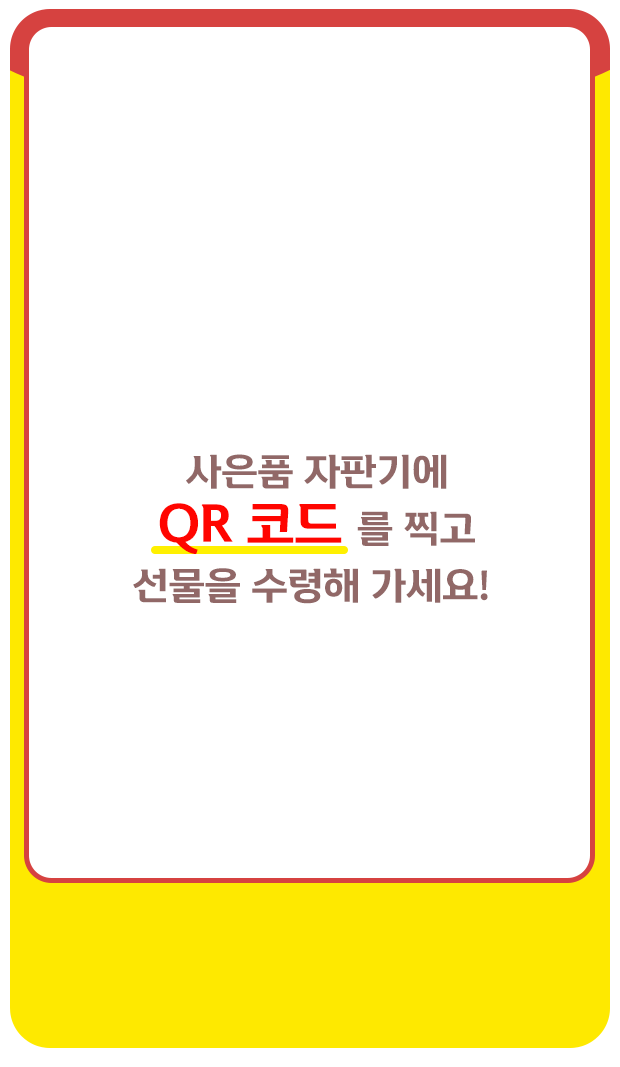
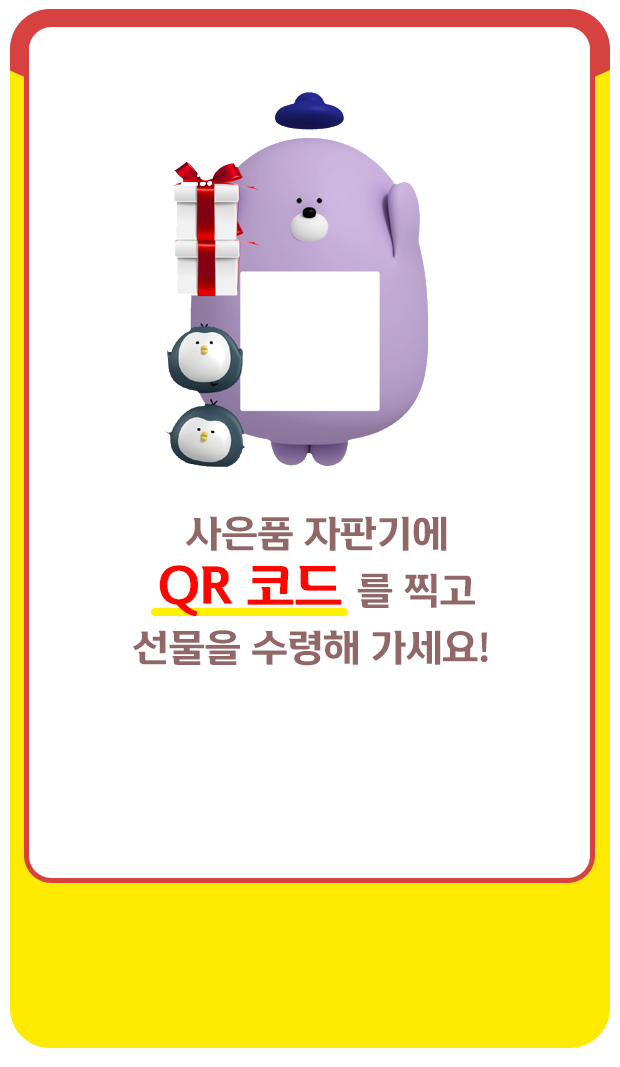
ux

Changed region(s): [[0.2145, 0.0619, 0.7968, 0.6495]]

diff --git a/webar/script.js b/webar/script.js
@@ -14,6 +14,19 @@ var quizs = [
 var quizidx = 0;
 
 function showQR() {
+document.getElementById('congratux').style.display = 'none';
+document.getElementById('qrux').style.display = 'block';
+removeAllQR();
+
+var qrcode = new QRCode(document.getElementById("qrcode"), {
+	text: "https://www.naver.com",
+	width: 64,
+	height: 64,
+	colorDark : "#000000",
+	colorLight : "#ffffff",
+	correctLevel : QRCode.CorrectLevel.H
+});
+
 /*	
 	$.ajax("https://game.digilog-xr.com/app/gameQr")
 	.done(function(response) {
@@ -24,8 +37,8 @@ function showQR() {
 		
 		var qrcode = new QRCode(document.getElementById("qrcode"), {
 			text: response.result.qrString,
-			width: 200,
-			height: 200,
+			width: 64,
+			height: 64,
 			colorDark : "#000000",
 			colorLight : "#ffffff",
 			correctLevel : QRCode.CorrectLevel.H
@@ -35,18 +48,7 @@ function showQR() {
 		console.log(error);
 	});
 */	
-document.getElementById('congratux').style.display = 'none';
-document.getElementById('qrux').style.display = 'block';
-removeAllQR();
 
-var qrcode = new QRCode(document.getElementById("qrcode"), {
-	text: "https://www.naver.com",
-	width: 128,
-	height: 128,
-	colorDark : "#000000",
-	colorLight : "#ffffff",
-	correctLevel : QRCode.CorrectLevel.H
-});
 }
 
 AFRAME.registerComponent('camrot', {

diff --git a/webar/index.html b/webar/index.html
@@ -115,7 +115,7 @@
 							<a-entity id="firstux2" mixin="gamehelp" visible="true"></a-entity>
 						</a-entity>
 -->
-					<a-entity text="value: version 0.9.8" position="0 1.0 -2.1"></a-entity>
+					<a-entity text="value: version 0.9.9" position="0 1.0 -2.1"></a-entity>
 				</a-entity>
 				<a-entity 
 					id="bow"
@@ -325,6 +325,10 @@
 			<img style="position:absolute; display: flex; display: flex; width:310px; height:533px; top: 50vh; left: 50vw; margin-left: -155px; margin-top: -266px;" src="./assets/forth_finish/qr_back.png"/>
 
 			<div class="qrcode" id="qrcode"></div>
+
+			<div id="saveqr" >
+				<img style="position:absolute; display: flex; width:204px; height:54px; top: 50vh; left: 50vw; margin-left: -102px; margin-top: 140px;" src="./assets/forth_finish/qrsave.png"/>    
+			</div>
 
 			<div id="restarthome" >
 				<img style="position:absolute; display: flex; width:120px; height:35px; top: 50vh; left: 50vw; margin-left: -60px; margin-top: 200px;" src="./assets/forth_finish/check_button_on.png"/>    

diff --git a/webar/style.css b/webar/style.css
@@ -71,10 +71,10 @@ startbutton {
 .qrcode {
     position:absolute;
     display: flex; 
-    width: 128px; 
-    height: 128px;
+    width: 64px; 
+    height: 64px;
     top: 50vh; 
     left: 50vw;    
     margin-top: -200px;
-    margin-left: -64px;
+    margin-left: -32px;
 }
